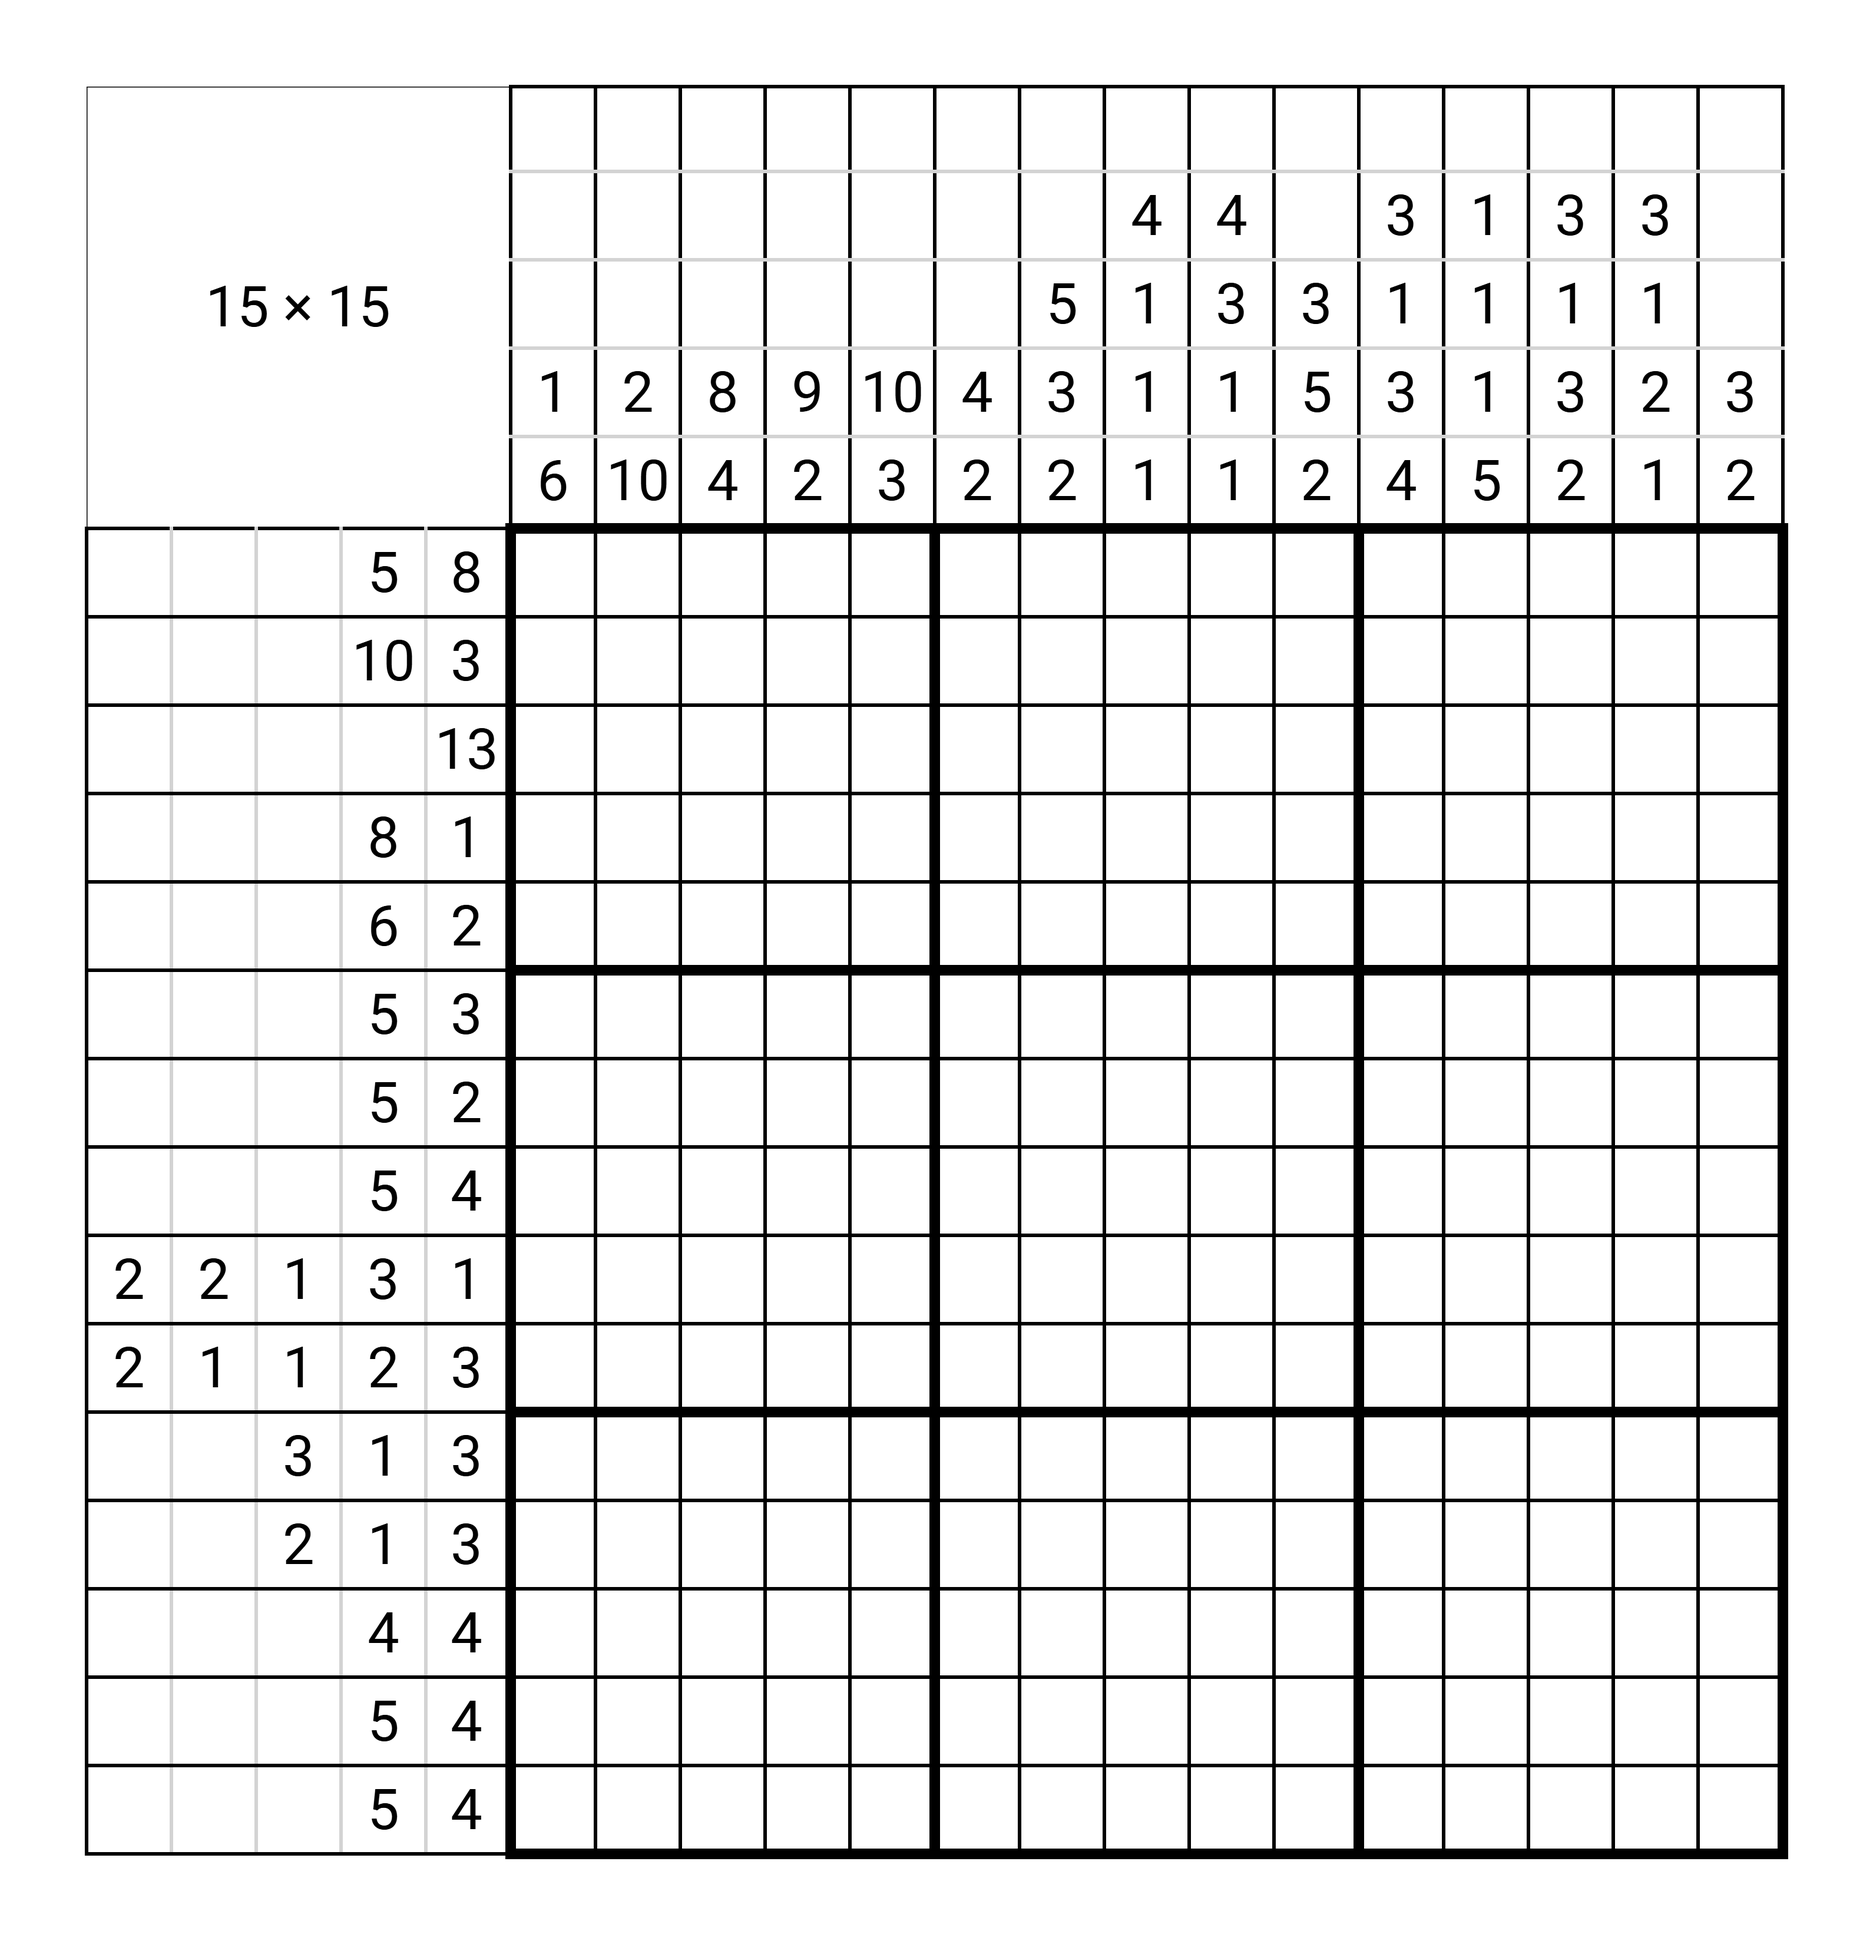
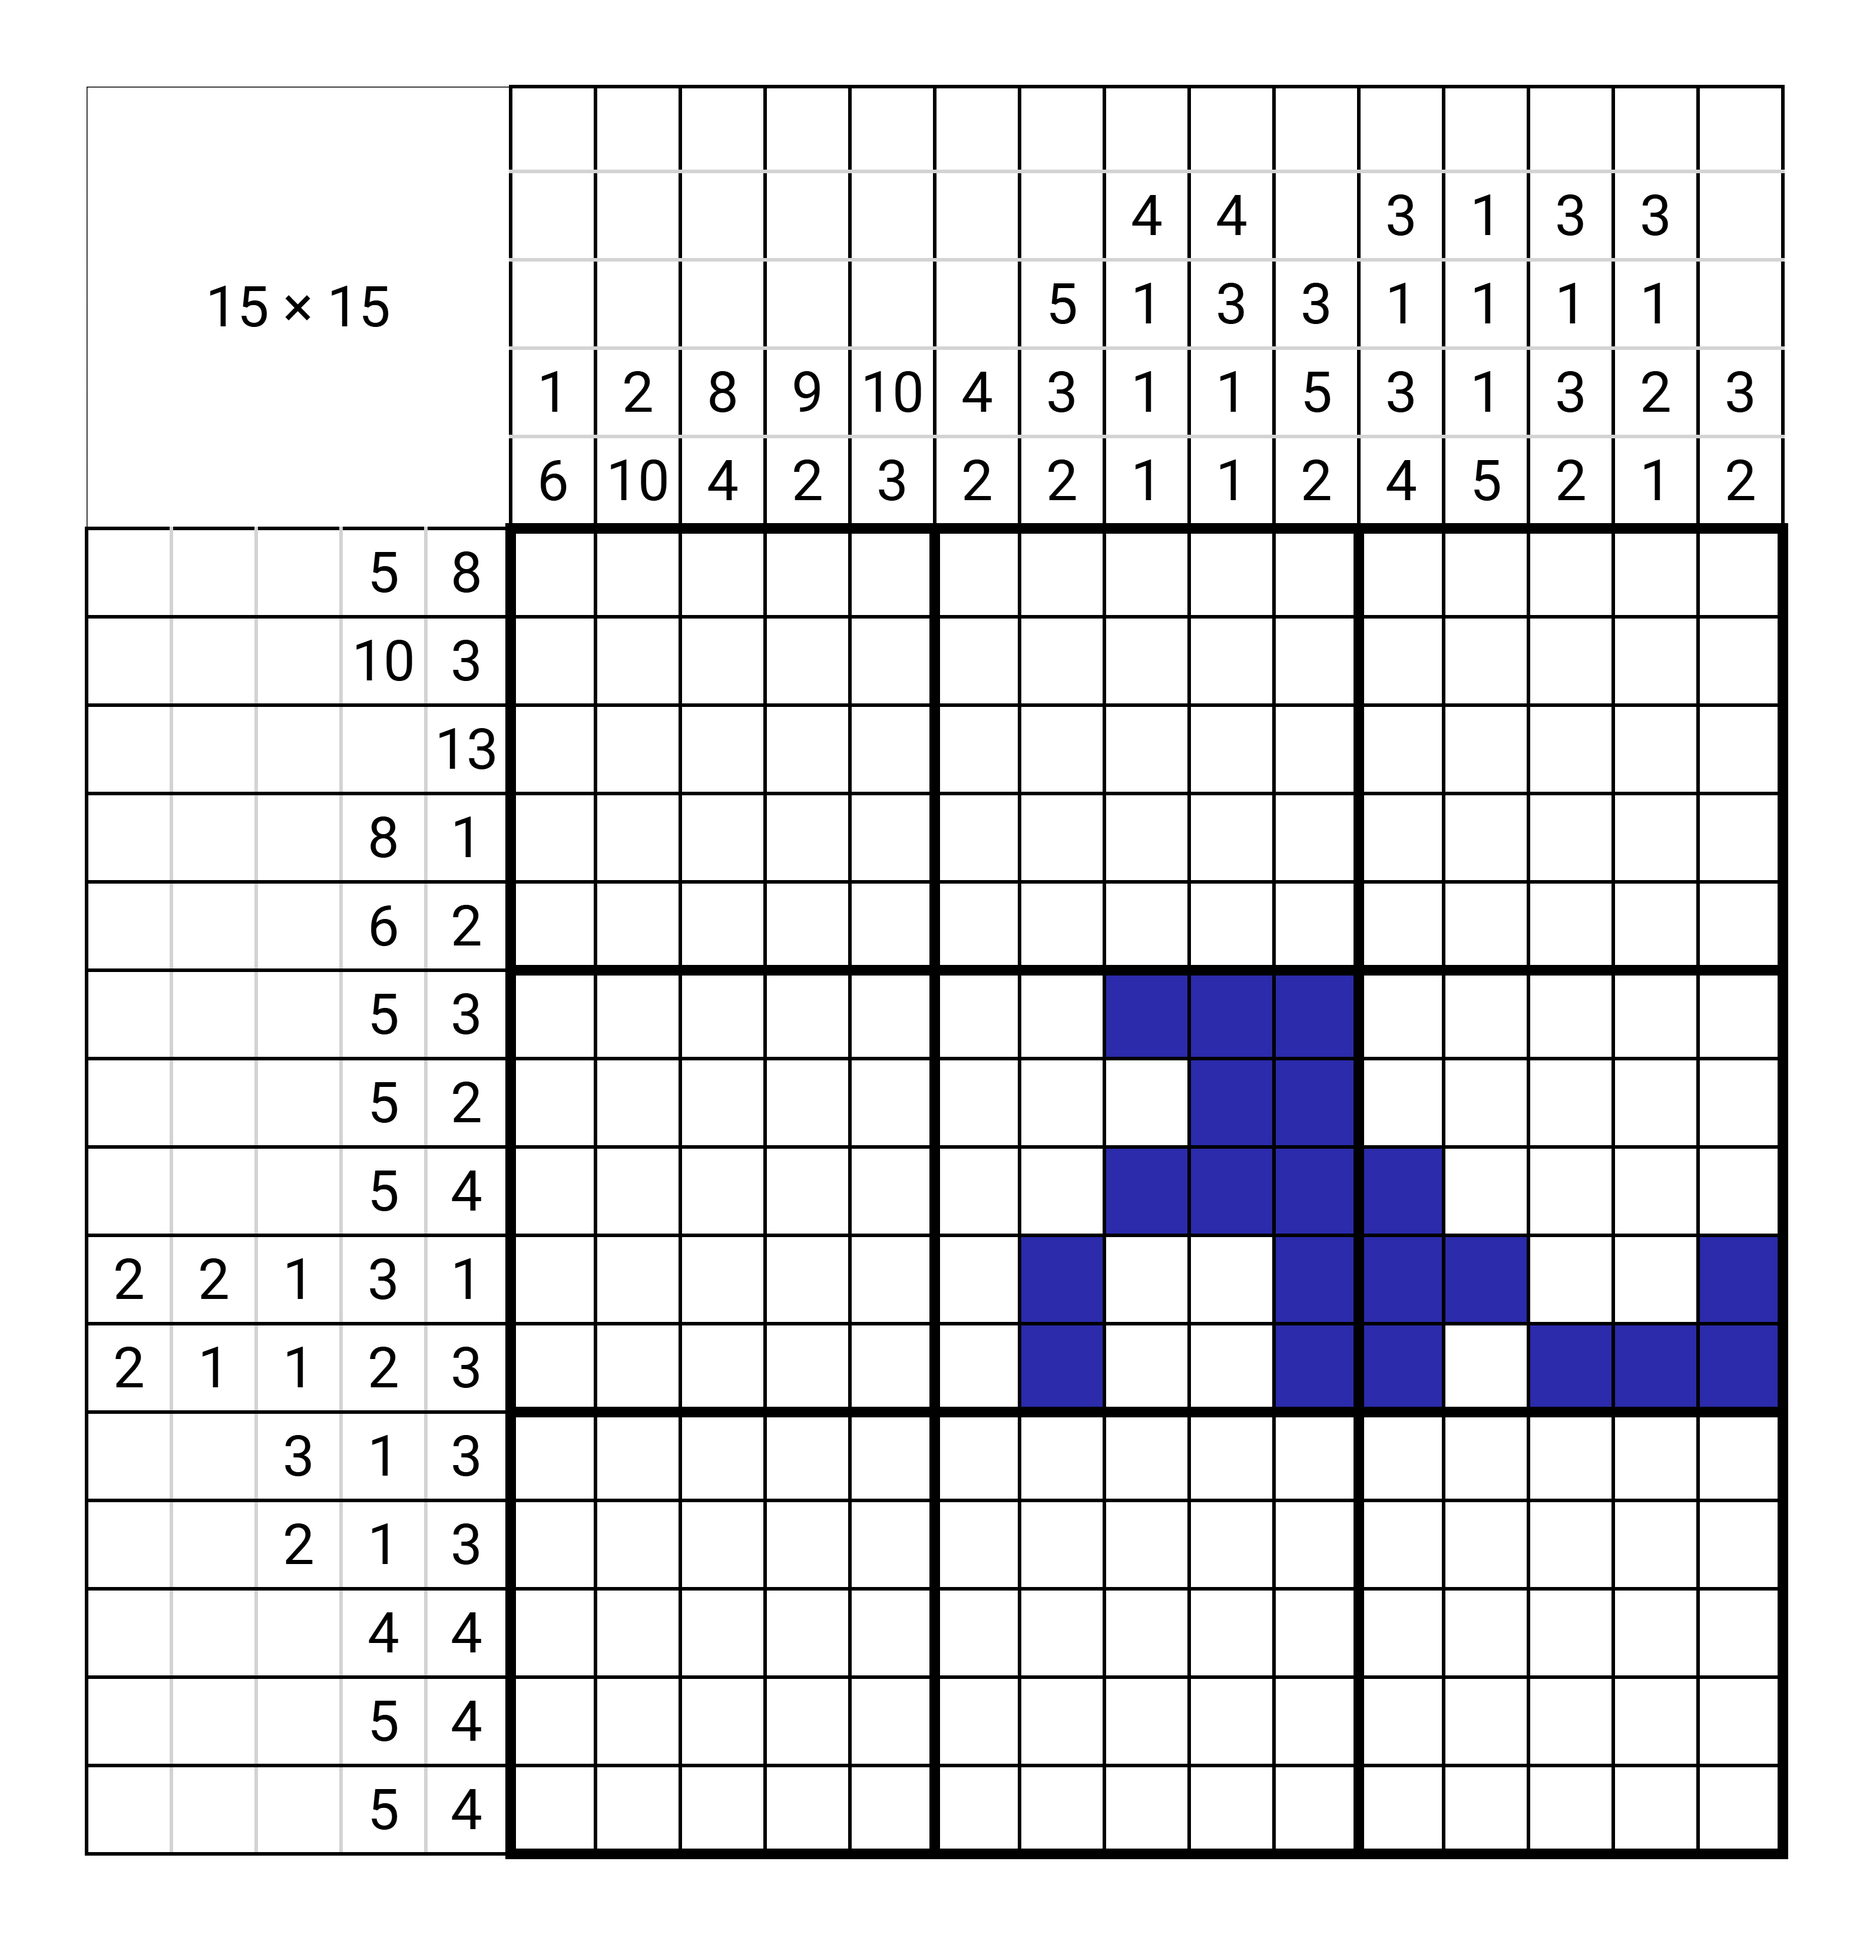
Nearly last push 2
- added safari BG files
- added aqua BG v3
- part solved shark

Changed region(s): [[0.5292, 0.4994, 0.9651, 0.7491]]

diff --git a/random/scratchdisk-cybercritter/aquarium-shark.html b/random/scratchdisk-cybercritter/aquarium-shark.html
@@ -184,7 +184,8 @@
                     <aside id="popUp" class="popup">
                         <div class="popUpContainer" style="display: flex; justify-content: center">
                             <header>
-                                <a href="#!" class="aqua-div closePopUp" style="translate: 800% -5%; z-index: 1">X</a><br><br>
+                                <a href="#!" class="aqua-div closePopUp"
+                                    style="translate: 800% -5%; z-index: 1">X</a><br><br>
                                 <img src="./assets/help-aquarium.png" style="width: 1200px; translate: 18.5%;">
                             </header>
                         </div>
@@ -370,7 +371,7 @@
                             for (let i = 0; i < 600; i += 40.75) {
                                 strokeWeight(3);
                                 //vert
-                                // line(288.5 + 185-28.75 + i, 288.5-28.75, 288.5 + 185-28.75 + i, 876);
+                                line(288.5 + 185 - 28.75 + i, 288.5 - 28.75, 288.5 + 185 - 28.75 + i, 876);
                                 //horiz
                                 line(287 + 185 - 25.75, 287 - 28.75 + (i + .95), 876 + 185 - 5.75, 287 - 28.75 + (i + .95));
                             }
@@ -385,11 +386,38 @@
                                 for (var j = 0; j < 15; j++) {
                                     for (var i = 0; i < 15; i++) {
                                         // if (col[j * 15 + i]) fill(208, 255, 208);
-                                        if (col[j * 15 + i]) fill(255);
-                                        else
+                                        if (col[j * 15 + i]) {
+                                            noStroke();
+                                            fill(255);
+                                            rect(270 - 50 + 20 + 185 + x[i], 270 + -30 + y[j], 34, 34);
+                                            fill(48, 48, 172);
+
+                                            rect(424.75+(40.75*8), 239.25 + (40.75*6), 37, 37);
+                                            rect(424.75+(40.75*9), 239.25 + (40.75*6), 37, 37);
+                                            rect(424.75+(40.75*10), 239.25 + (40.75*6), 37, 37);
+                                            rect(424.75+(40.75*9), 239.25 + (40.75*7), 37, 37);
+                                            rect(424.75+(40.75*10), 239.25 + (40.75*7), 37, 37);
+                                            rect(424.75+(40.75*8), 239.25 + (40.75*8), 37, 37);
+                                            rect(424.75+(40.75*9), 239.25 + (40.75*8), 37, 37);
+                                            rect(424.75+(40.75*10), 239.25 + (40.75*8), 37, 37);
+                                            rect(424.75+(40.75*11), 239.25 + (40.75*8), 37, 37);
+                                            rect(424.75+(40.75*7), 239.25 + (40.75*9), 37, 37);
+                                            rect(424.75+(40.75*10), 239.25 + (40.75*9), 37, 37);
+                                            rect(424.75+(40.75*11), 239.25 + (40.75*9), 37, 37);
+                                            rect(424.75+(40.75*12), 239.25 + (40.75*9), 37, 37);
+                                            rect(424.75+(40.75*15), 239.25 + (40.75*9), 37, 37);
+                                            rect(424.75+(40.75*7), 239.25 + (40.75*10), 37, 37);
+                                            rect(424.75+(40.75*10), 239.25 + (40.75*10), 37, 37);
+                                            rect(424.75+(40.75*11), 239.25 + (40.75*10), 37, 37);
+                                            rect(424.75+(40.75*13), 239.25 + (40.75*10), 37, 37);
+                                            rect(424.75+(40.75*14), 239.25 + (40.75*10), 37, 37);
+                                            rect(424.75+(40.75*15), 239.25 + (40.75*10), 37, 37);
+
+                                        } else {
                                             fill(color(0, 0, 128));
-                                        rect(270 - 50 + 20 + 185 + x[i], 270 + -30 + y[j], w, w);
-                                        // console.log("this is j : " + j + ". this is i : " + i);
+                                            rect(270 - 50 + 20 + 185 + x[i], 270 + -30 + y[j], w, w);
+                                            // console.log("this is j : " + j + ". this is i : " + i);
+                                        }
                                     }
                                 }
                                 break;

diff --git a/random/scratchdisk-cybercritter/css/style.css b/random/scratchdisk-cybercritter/css/style.css
@@ -63,7 +63,7 @@ mark8 {
  */
 
 .aqua-body {
-    background-image: url('../assets/background-aquarium-v1.2.png');
+    background-image: url('../assets/background-aquarium-v3.1.png');
     /* background-size: 100% auto; */
 
     /* daria w3 */
